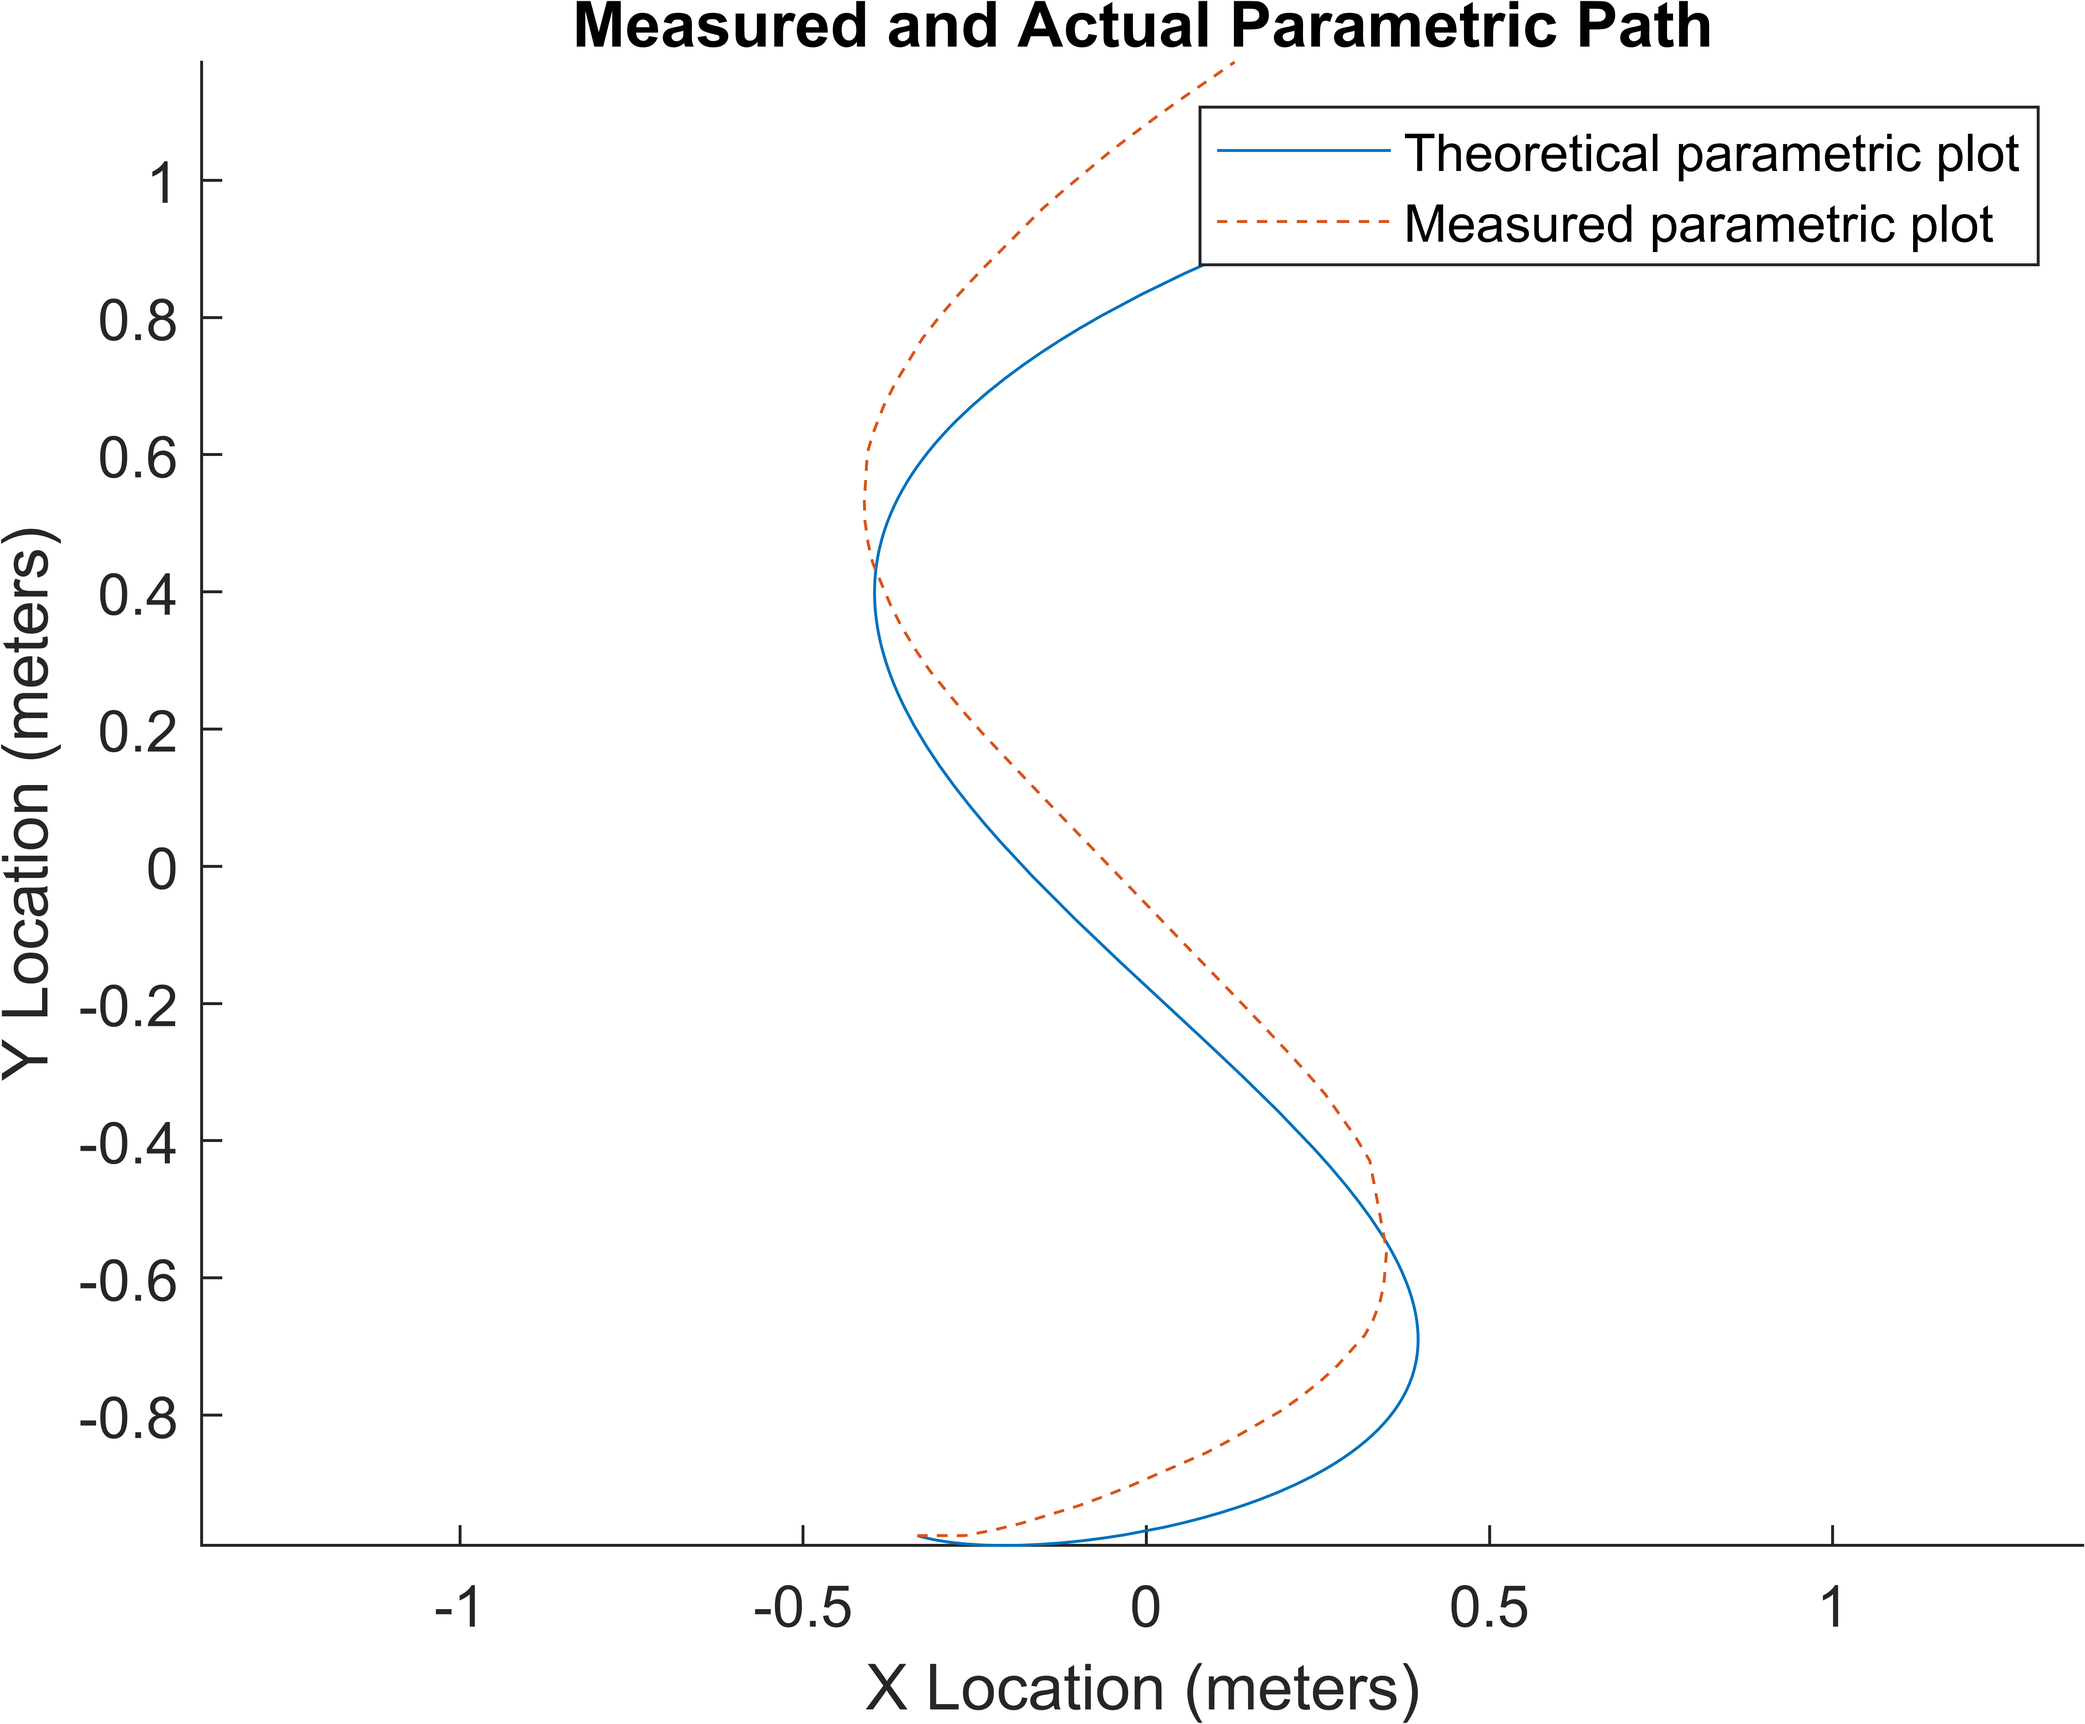
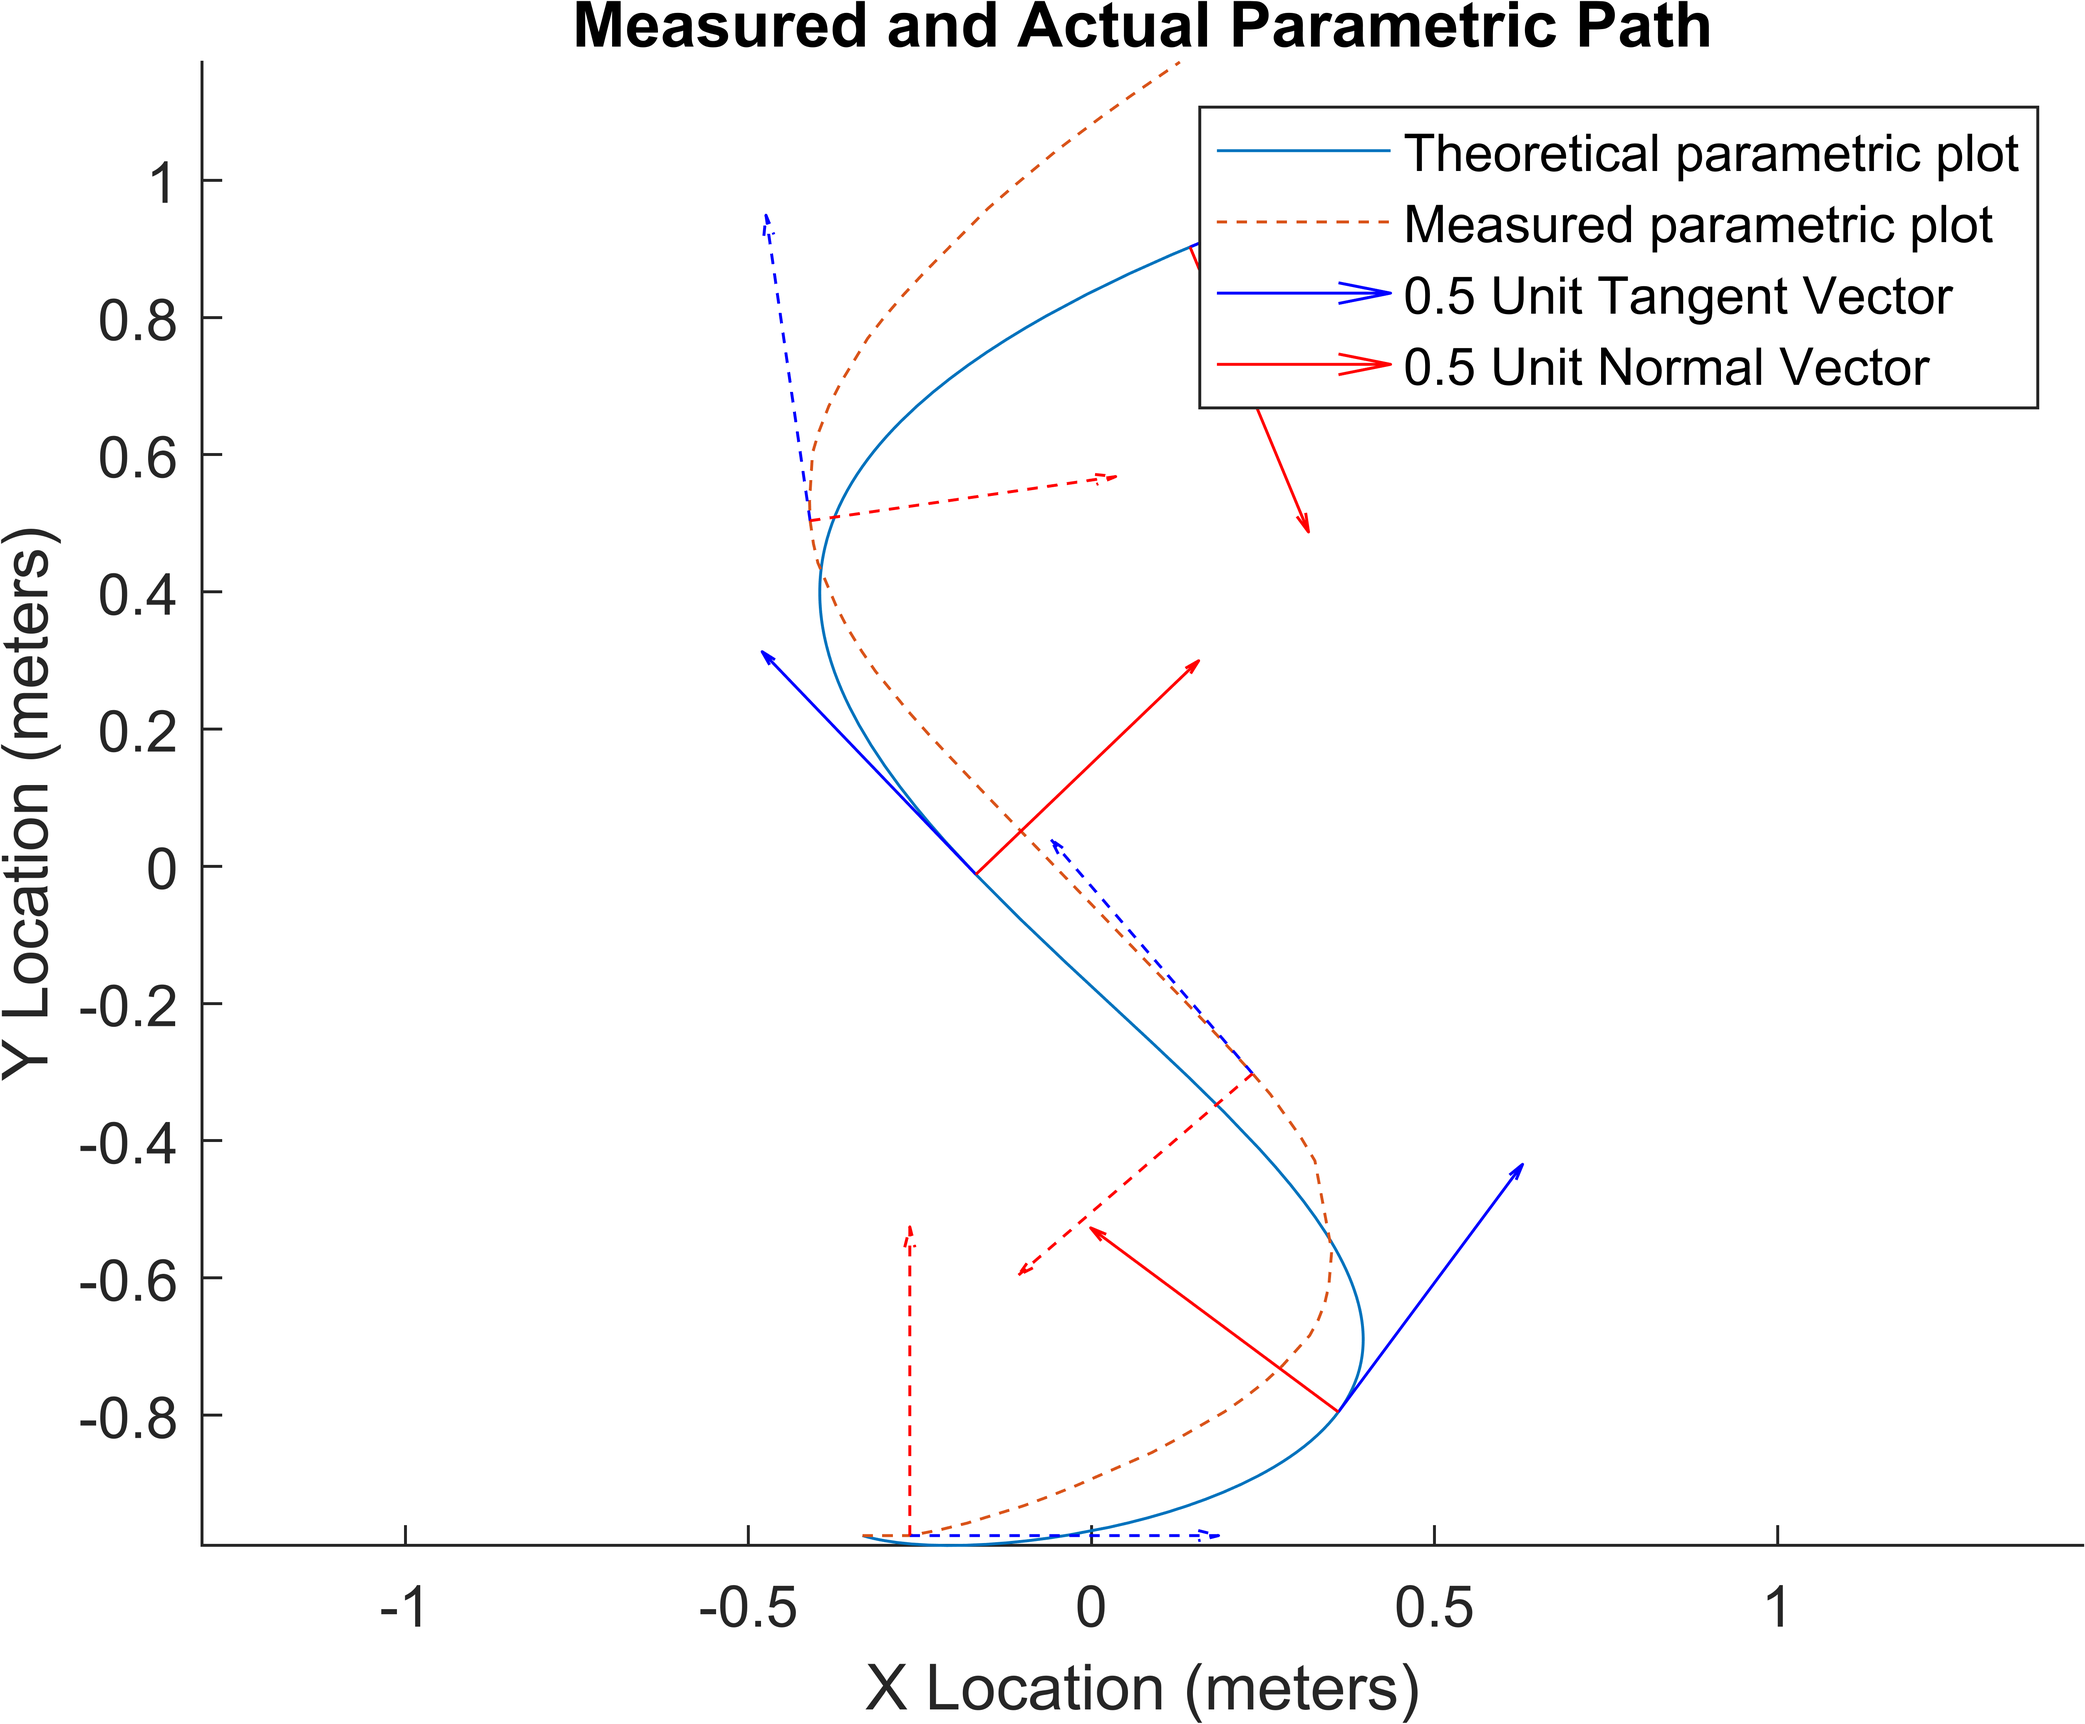
update plots

diff --git a/plot_theoretical.m b/plot_theoretical.m
@@ -1,4 +1,5 @@
 close all; 
+clearvars -except commands;
 
 if exist('commands','var') == 0
     commands = compute_steps()
@@ -84,17 +85,62 @@ for i=1:size(measured_v)
     measured_r = [measured_r; next_x next_y];
 end
 
-%Plot Planned Robot Path
+%Plot Planned Robot Path WITH TANGENTS -------------------------------
 figure();
 hold on;
 axis equal; 
 plot_parametric_theoretical = fplot(ri, rj, [0, 3.2]);
 plot_parametric_measured = plot(measured_r(:,1), measured_r(:,2), '--');
-legend([plot_parametric_theoretical,plot_parametric_measured], ["Theoretical parametric plot", "Measured parametric plot"]);
 xlabel("X Location (meters)");
 ylabel("Y Location (meters)");
 title("Measured and Actual Parametric Path");
+
+% PLOT TANGENTS TO MEASURED
+idx_measured = 2:20:58
+meas_tangent = 1;
+meas_norm = 1;
+for i=1:size(idx_measured,2)
+    idx = idx_measured(i)
+    tangent_vec = measured_r(idx,:) - measured_r(idx-1,:);
+    tangent_vec = [tangent_vec(1) tangent_vec(2) 0];
+    tangent_vec = tangent_vec ./ norm(tangent_vec);
+
+    omega_vec = [0 0 measured_w(i) ./ norm(measured_w(i))];
+
+    normal_vec = -1*cross(tangent_vec, omega_vec);
+
+    if(idx > 58/2)
+        normal_vec = normal_vec * -1;
+    end
+    
+    meas_tangent = quiver(measured_r(idx,1), measured_r(idx,2), tangent_vec(1) * 0.5, tangent_vec(2) * 0.5, 'b--');
+    meas_norm = quiver(measured_r(idx,1), measured_r(idx,2), normal_vec(1) * 0.5, normal_vec(2) * 0.5, 'r--');
+end
+
+points = [300, 700, 1200];
+quiver_tan = 0; 
+quiver_norm = 0;
+for i=1:1:length(points)
+    idx = points(i);
+    location_x = double(subs(ri, u, commands(idx, 4)));
+    location_y = double(subs(rj, u, commands(idx, 4)));
+    vector_speed = [ commands(idx, 5), commands(idx, 6)];
+    vector_speed = (vector_speed ./ norm(vector_speed)) * 0.5;
+
+    vector_norm = [ commands(idx, 8),  commands(idx, 9)];
+    vector_norm = (vector_norm ./ norm(vector_norm)) * 0.5;
+
+    quiver_tan = quiver(location_x, location_y, vector_speed(1), vector_speed(2), 'b');
+    quiver_norm = quiver(location_x, location_y, vector_norm(1), vector_norm(2), 'r');
+end
+
+legend([plot_parametric_theoretical,plot_parametric_measured,quiver_tan,quiver_norm], ["Theoretical parametric plot", "Measured parametric plot","0.5 Unit Tangent Vector", "0.5 Unit Normal Vector"]);
+
+
+
 exportgraphics(gcf,'plots/parametric-plot.png','Resolution',1000)
+
+
 
 
 % Plot omega and speed
@@ -112,7 +158,7 @@ ylabel('Angular Speed (rad/sec)');
 
 % Bottom plot
 nexttile;
-hold on; 
+hold on;
 theoretical_v_plot = plot(commands(:, 3), (commands(:,1) + commands(:,2)) / 2);
 measured_v_plot = plot(encoder_data_clean(1:end-1,1), (measured_vl_data + measured_vr_data) / 2);
 legend([theoretical_v_plot, measured_v_plot], ["Theoretical linear speed", "Measured linear speed"]);
